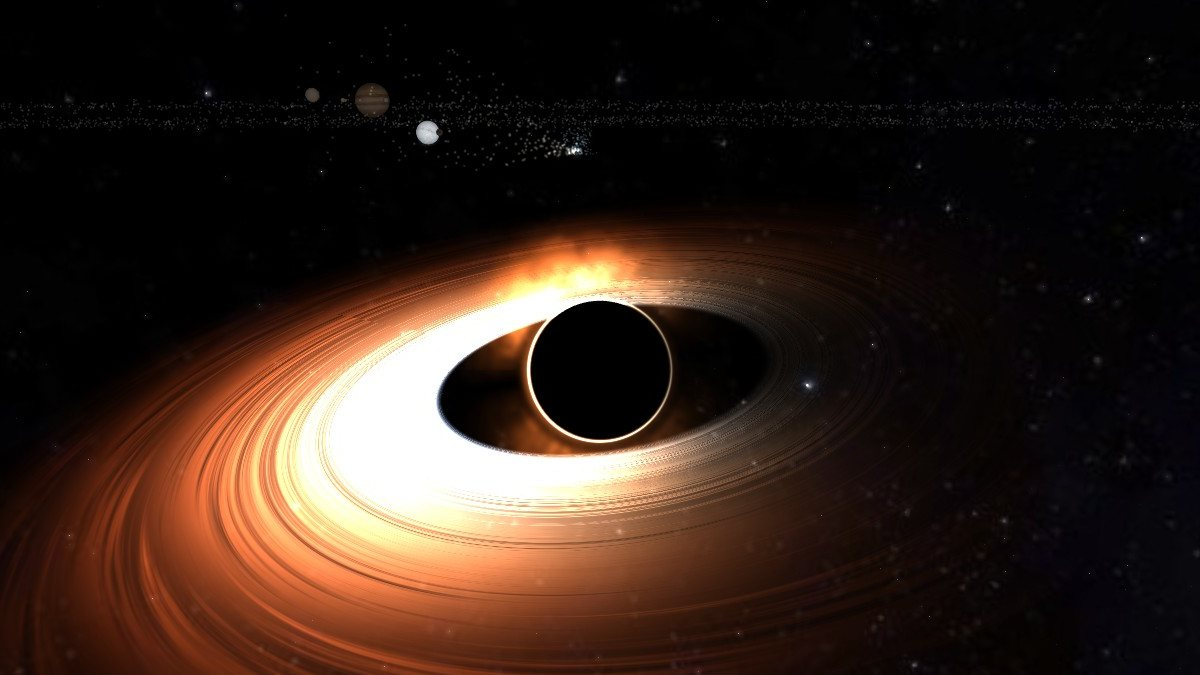
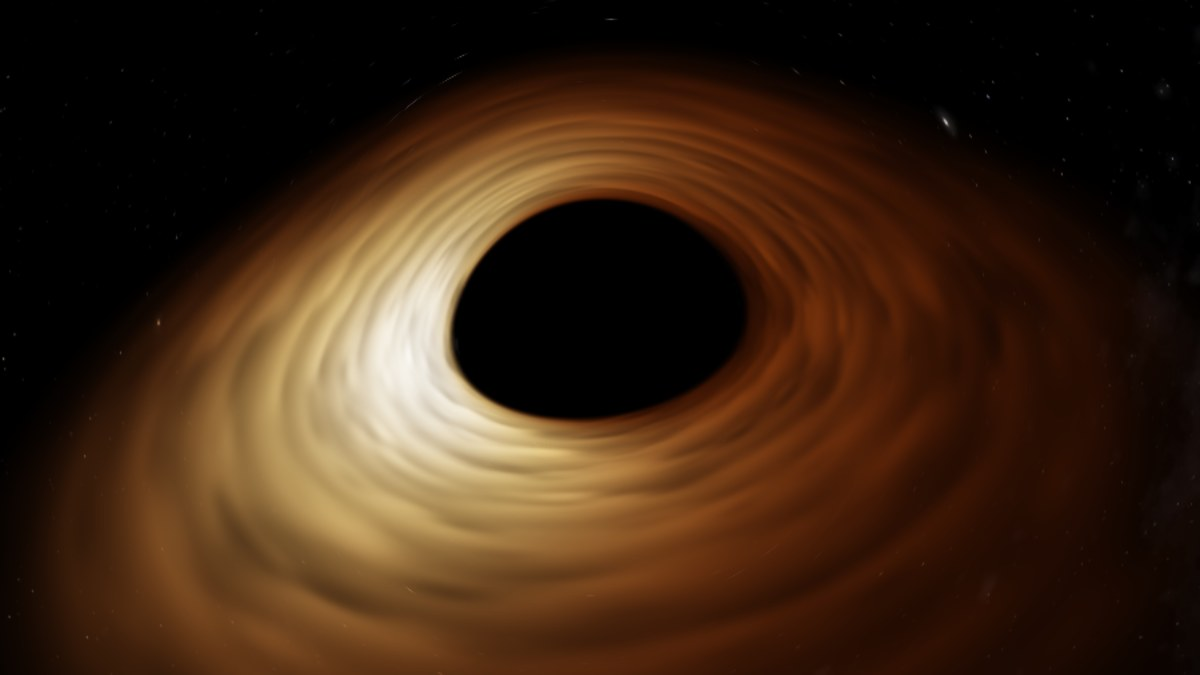
Kara delik görseli güncel sürümden yenilendi
Claude-Session: https://claude.ai/code/session_01L625rcovZcSnHfNd5ZA3rp

diff --git a/README.md b/README.md
@@ -8,7 +8,7 @@
 
 <img src="docs/karadelik.jpg" alt="Güneş kara deliğe dönüştü: Doppler etkisiyle parlayan yığılma diski ve foton halkası" width="100%">
 
-<sub><i>Güneş'i kara deliğe çevirdik. Diskin bize doğru dönen tarafı Doppler etkisiyle daha parlak; olay ufkunun çevresinde foton halkası.</i></sub>
+<sub><i>Güneş'i kara deliğe çevirdik. Diskin bize doğru dönen tarafı Doppler etkisiyle daha parlak; ışık olay ufkunun çevresinde bükülüyor.</i></sub>
 
 <br><br>
 
